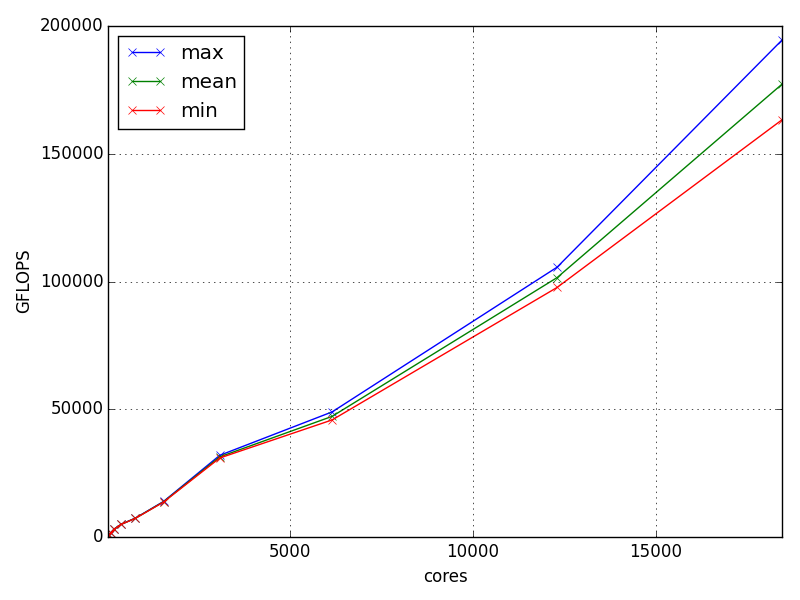
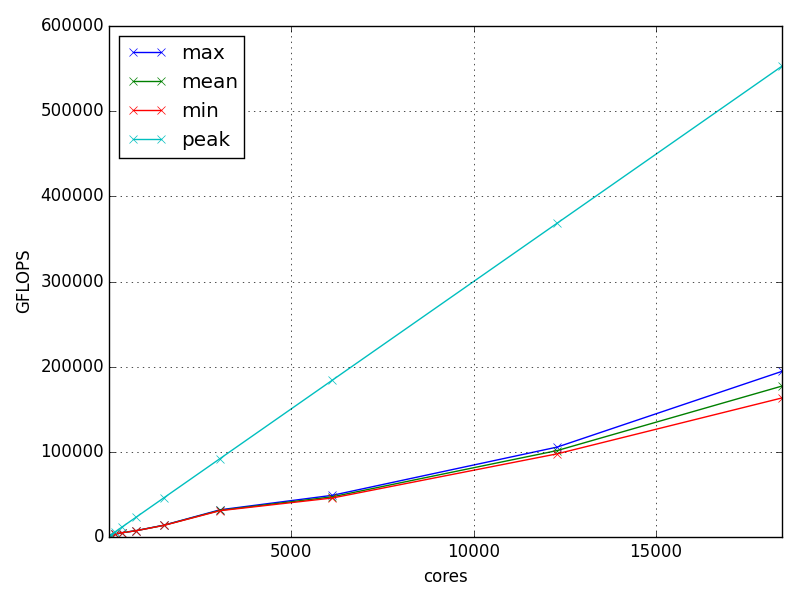
adding peak

diff --git a/nbody_demo/plot.py b/nbody_demo/plot.py
@@ -20,6 +20,8 @@ num_bytes = 1
 
 data = {}
 
+gflops_peak_single = 30
+
 for i in os.listdir(os.getcwd()):
     if i.endswith('.html') or i.endswith('png'):
         continue
@@ -123,8 +125,9 @@ html += '<p>Generated with <a href="http://sithhell.github.io/nbody_demo/plot.py
 html_images = ''
 html_links = '<ul>\n'
 
-plot_data = {};
+plot_data = {'peak': {}};
 for cores in data:
+    plot_data['peak'][cores] = gflops_peak_single * cores
     for stat in data[cores]['gflops']:
         if not stat in plot_data:
             plot_data[stat] = {}
